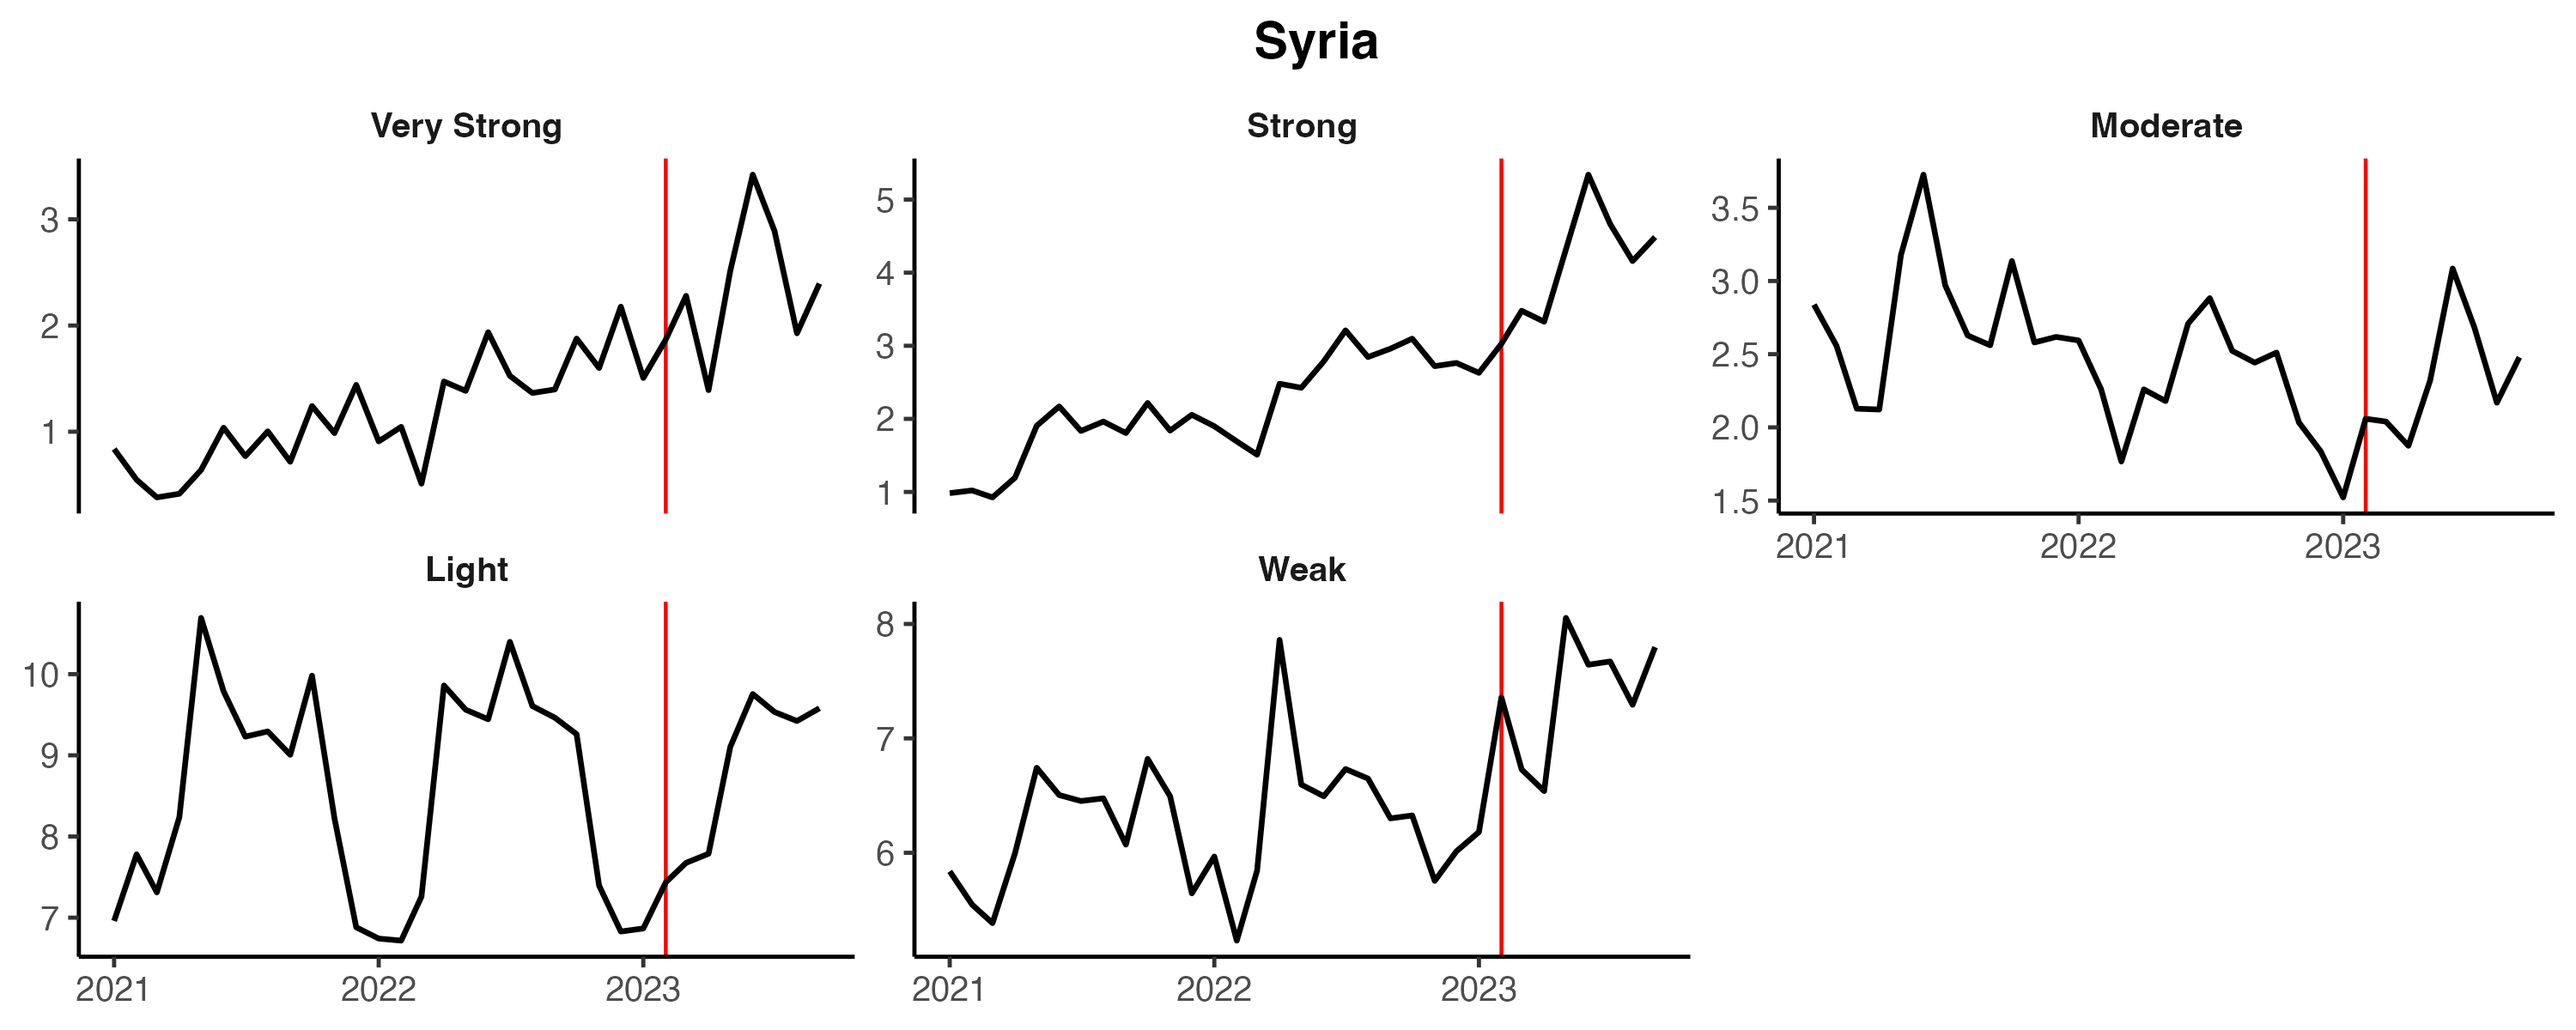
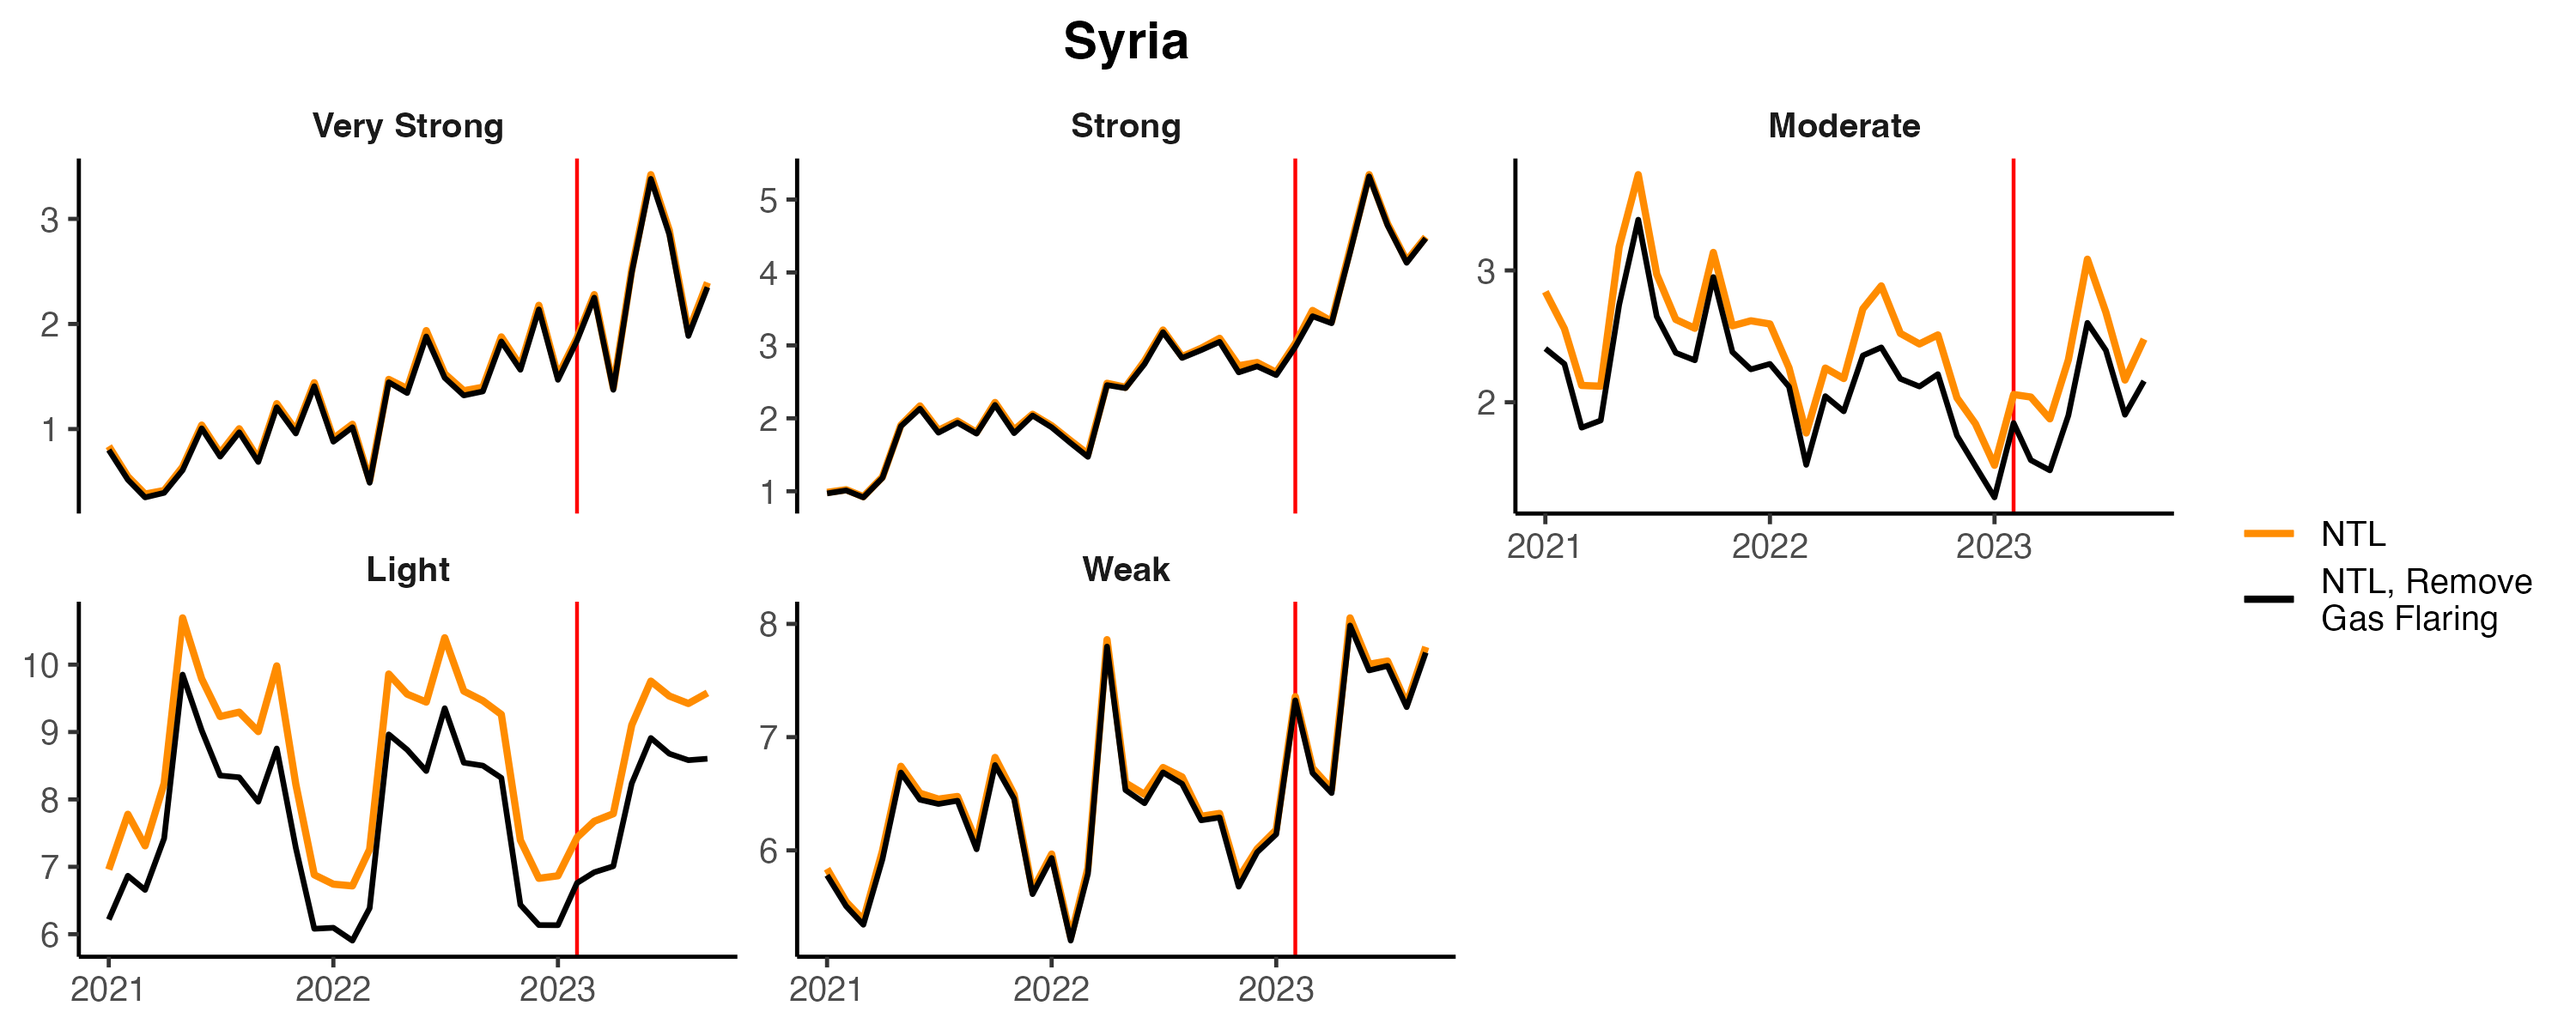
ntl update

diff --git a/notebooks/ntl-analysis/ntl-update-12-2023.md b/notebooks/ntl-analysis/ntl-update-12-2023.md
@@ -16,8 +16,22 @@ We examine trends in daily nighttime lights from before and after the February 6
 
 > *Average Trends in Nighttime Lights by Earthquake Intensity. The red line indicates February, 2023.*
 
+![](../../reports/figures/syr_eqintensity_verystrong_monthly.png)
+
+> *Average Trends in Nighttime Lights by Earthquake Intensity. The red line indicates February, 2023.*
+
+![](../../reports/figures/syr_eqintensity_strong_monthly.png)
+
+> *Average Trends in Nighttime Lights by Earthquake Intensity. The red line indicates February, 2023.*
+
+![](../../reports/figures/tur_eqintensity_verystrong_monthly.png)
+
+> *Average Trends in Nighttime Lights by Earthquake Intensity. The red line indicates February, 2023.*
+
 ### Percent Change in Nighttime Lights
+
+![](../../reports/figures/pchange_ntl_2022_2023.png)
 
 ![](../../reports/figures/pchange_ntl_monthly.png)
 
-> *Average Trends in Nighttime Lights by Earthquake Intensity. The red line indicates February, 2023.*
+
